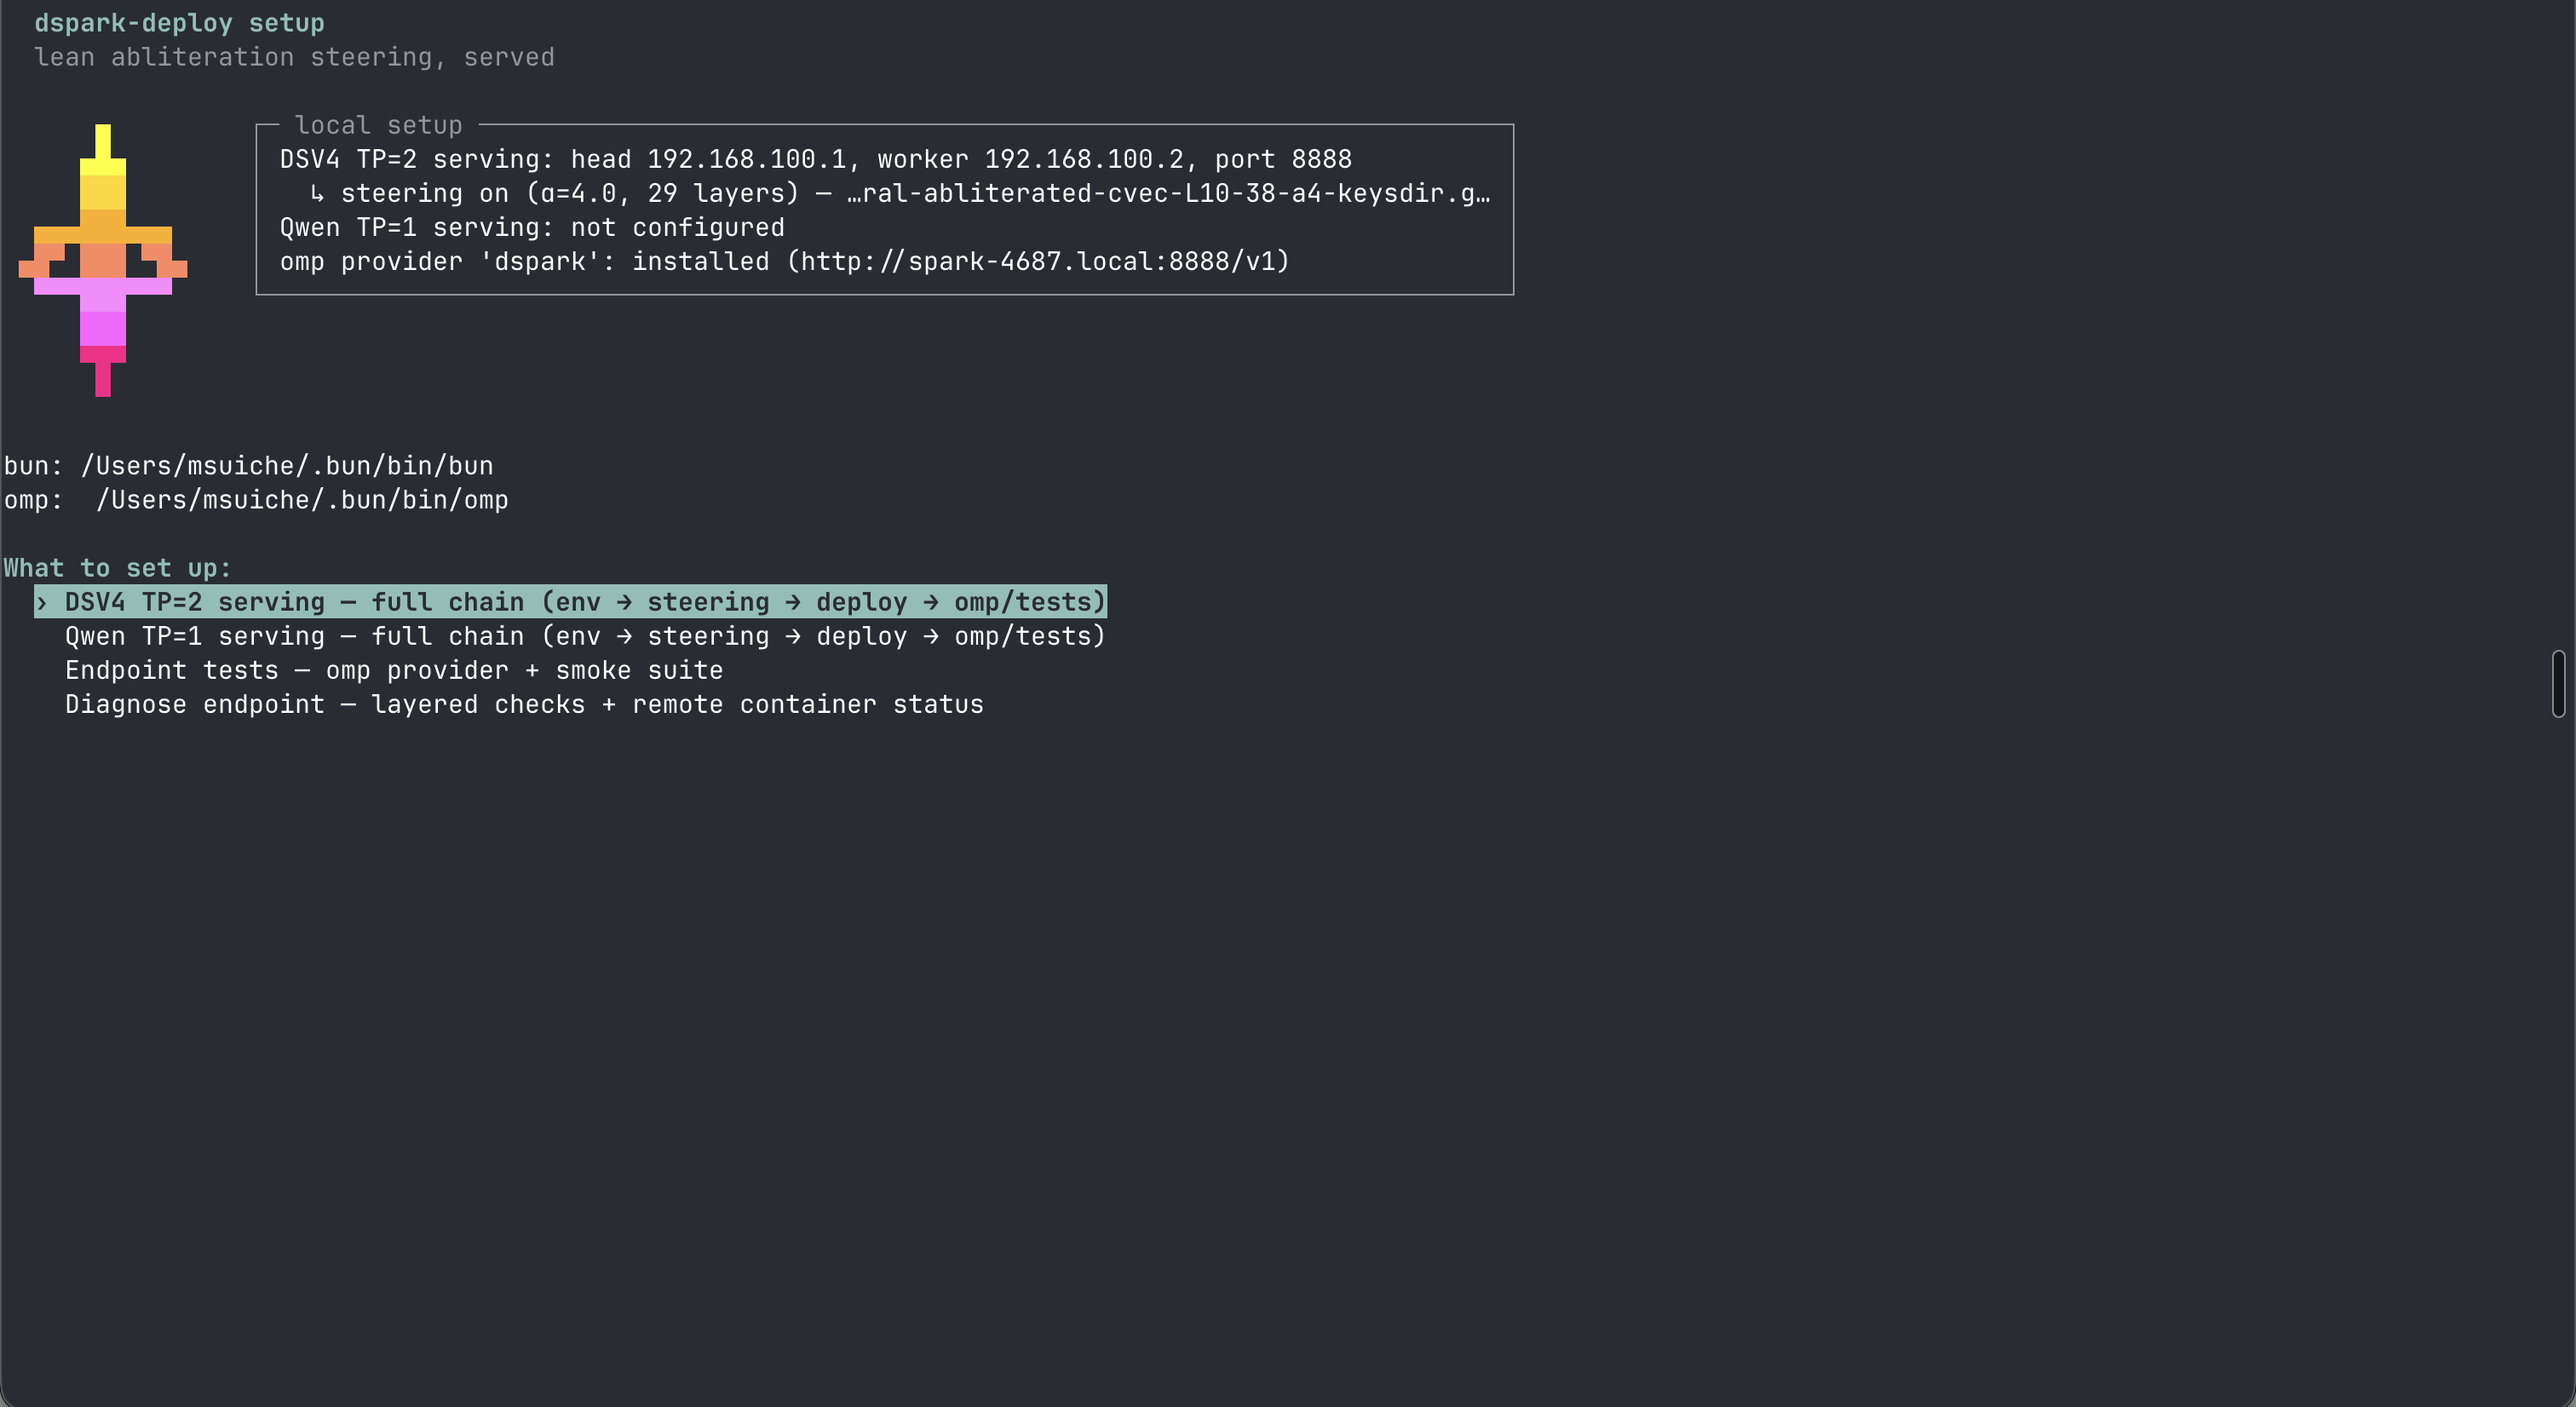
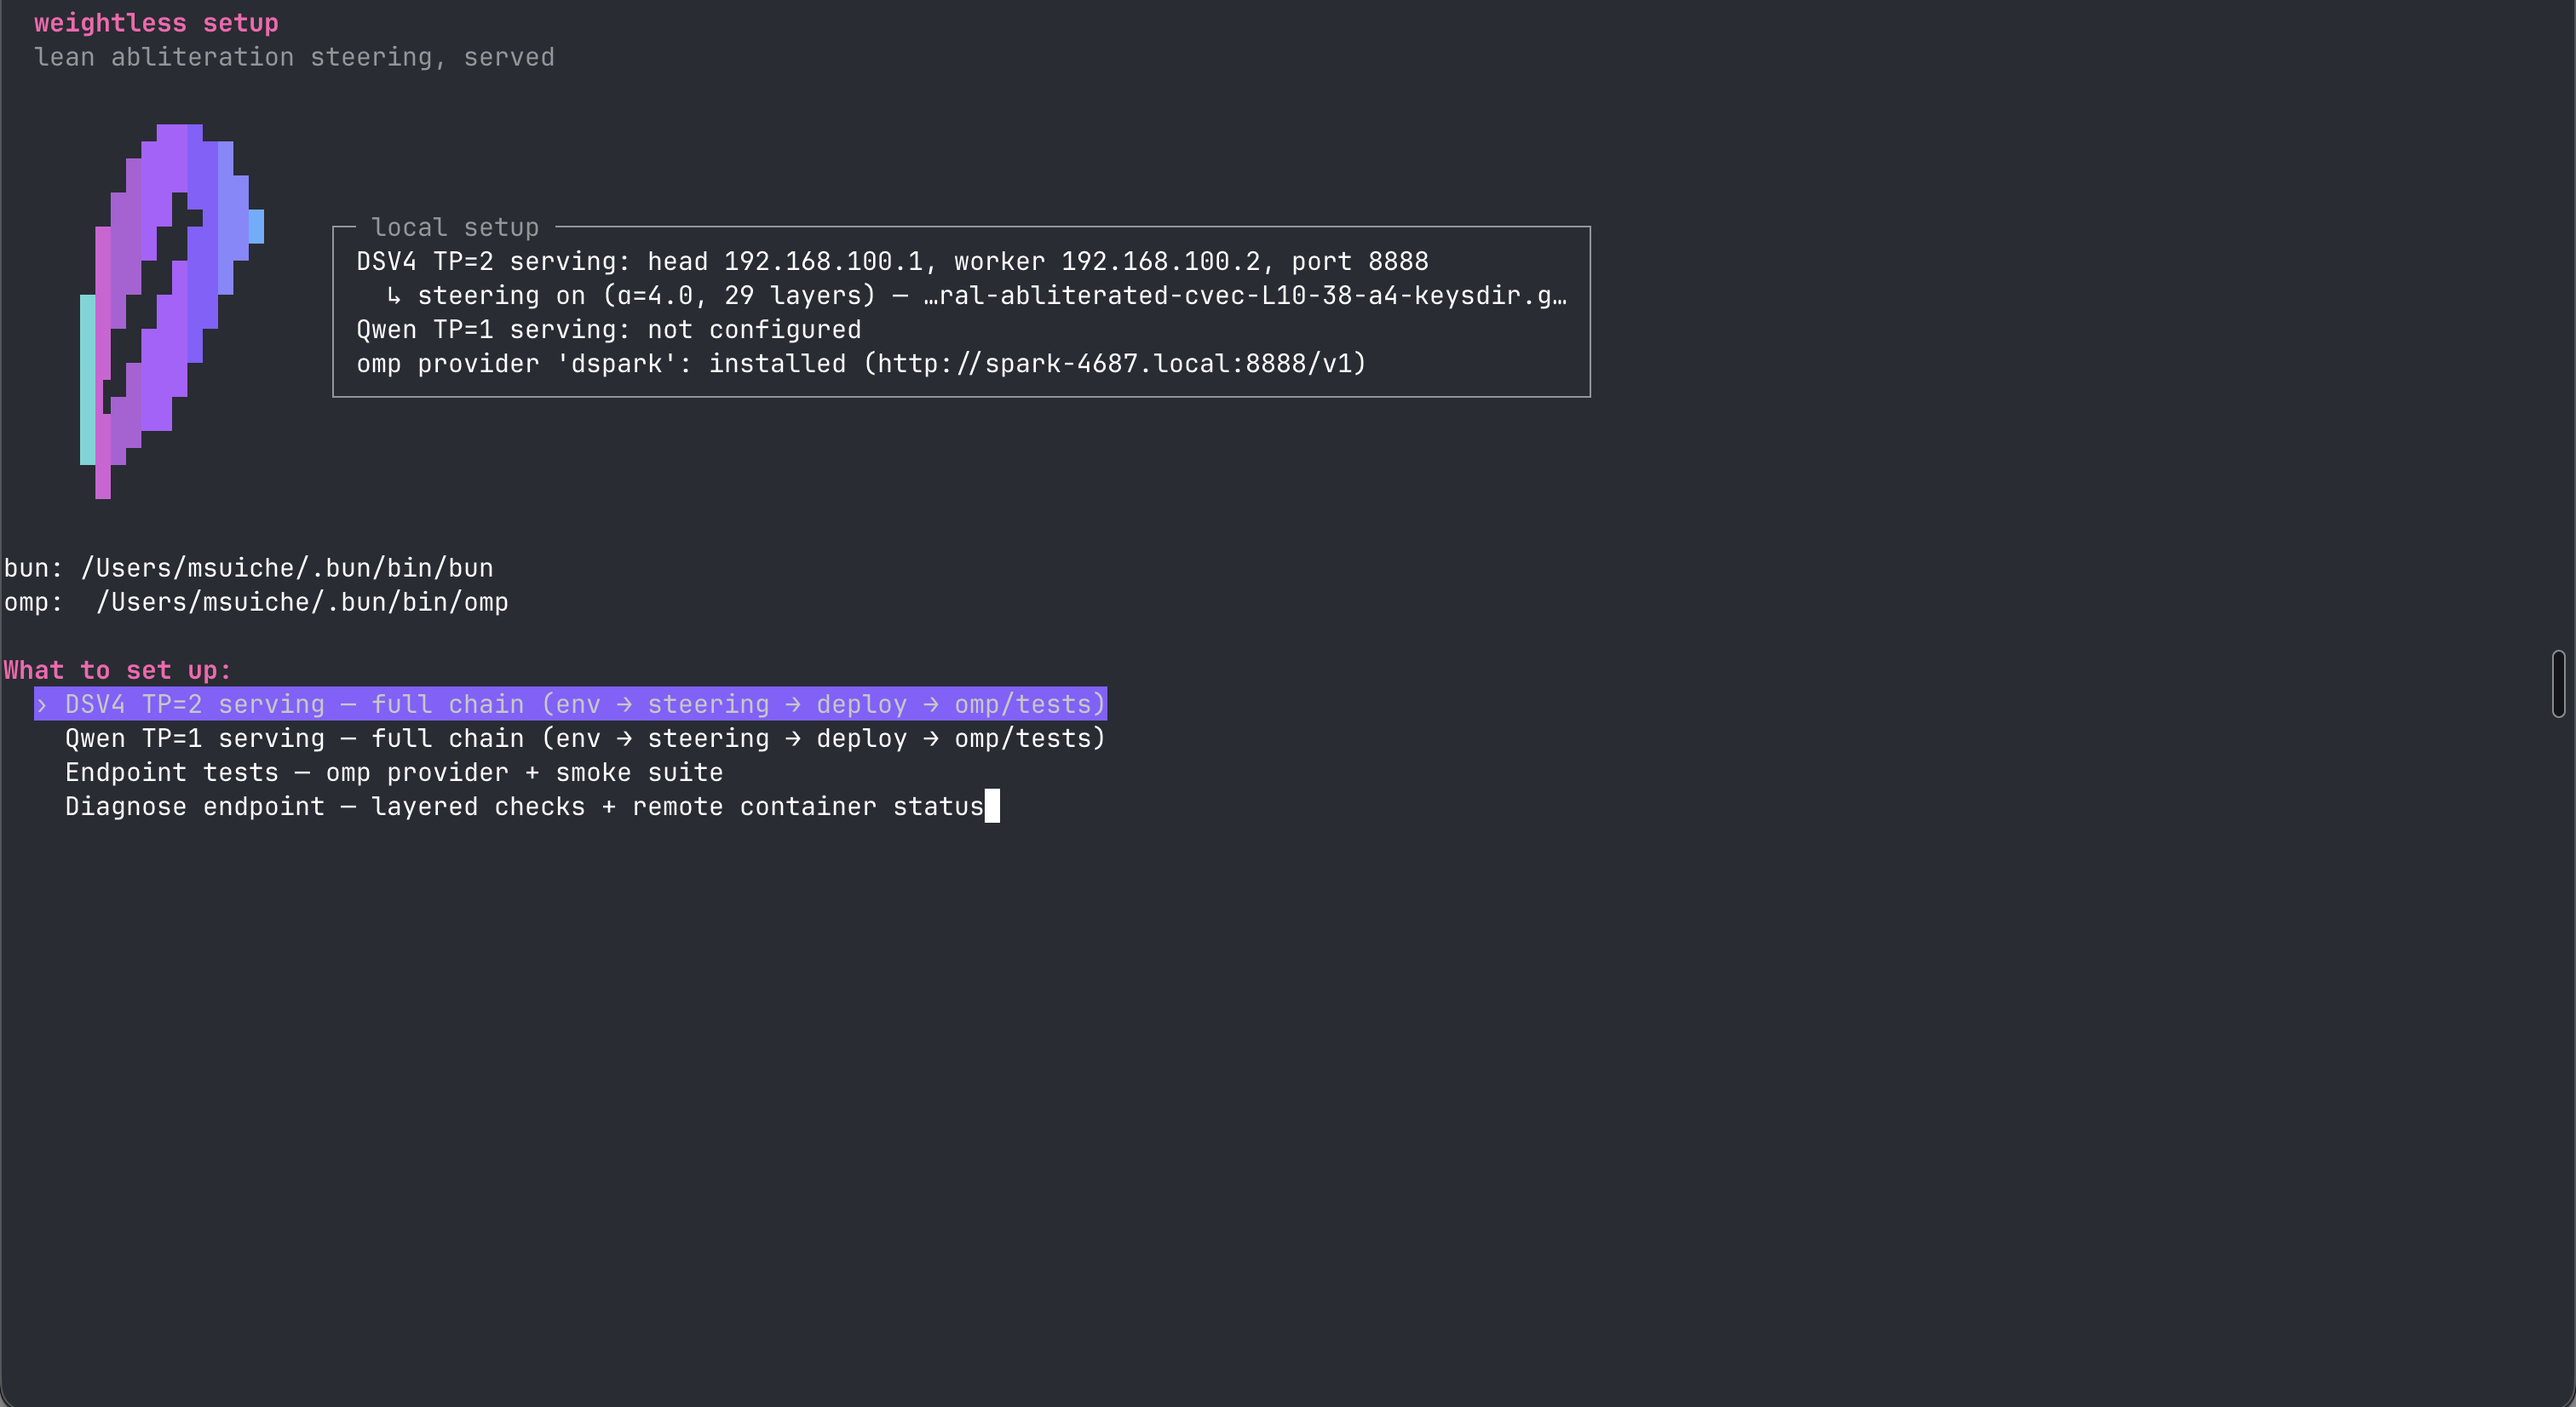
tests/03: retry once on the invalid-JSON serializer flake (fails with byte context only if it persists)

Changed region(s): [[0.0, 0.0926, 0.5906, 0.3705], [0.0, 0.4013, 0.4352, 0.5866], [0.0, 0.0, 0.1243, 0.0309]]

diff --git a/recipe/anemll/README.md b/recipe/anemll/README.md
@@ -51,5 +51,6 @@ Gotchas:
   inside a string, failing strict JSON parsers client-side. Rare
   (0/12 on retry), nothing in the server logs; the response carries
   nonstandard fields (`routed_experts`), so the suspect is the recipe's
-  custom response path. `tests/03-tool-call.sh` reports the byte offset and
-  context if it recurs — capture it before assuming client-side breakage.
+  custom response path. `tests/03-tool-call.sh` retries once
+  and reports the byte offset and context if it recurs twice in a row —
+  capture that before assuming client-side breakage.
